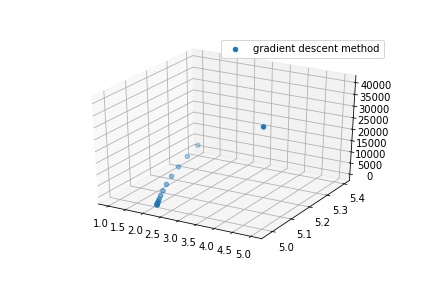
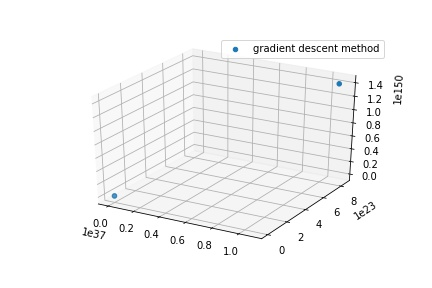
add new

diff --git a/Newton.py b/Newton.py
@@ -50,8 +50,9 @@ def grad(x, max_int):
 
 
 
-start = [5,5]
-val, objectf, iters = grad(start,50)
+#start = [5,5]
+start = [15,15]
+val, objectf, iters = grad(start,100)
 
 x = np.array([i[0] for i in val])
 y = np.array([i[1] for i in val])

diff --git a/gradient_descent.py b/gradient_descent.py
@@ -39,7 +39,8 @@ def grad(x, max_int):
     return vals, objectfs, miter
 
 
-start = [5,5]
+#start = [5,5]
+start = [15,15]
 val, objectf, iters = grad(start,50)
 start_time=time.time()
 
